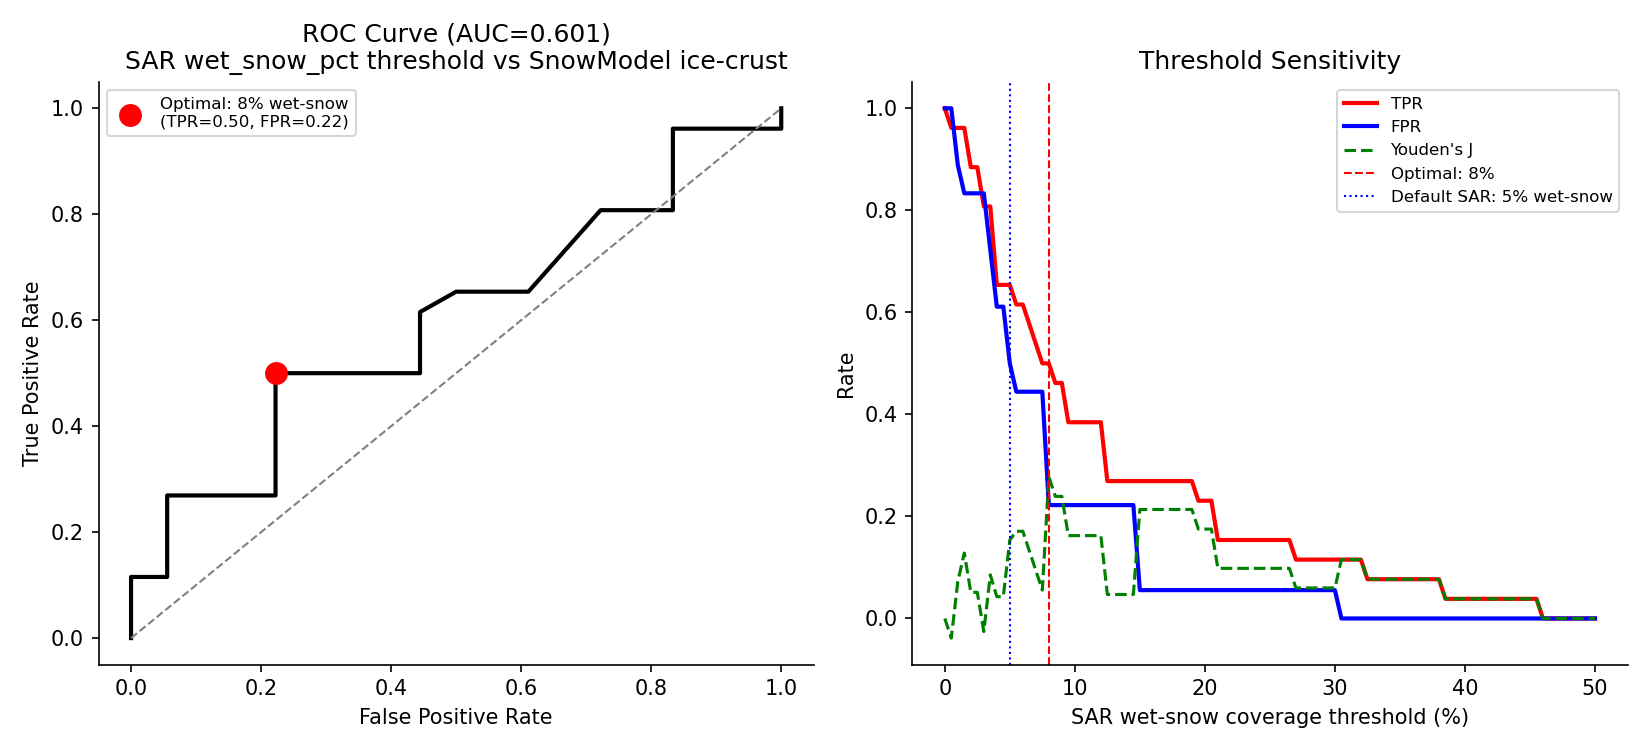
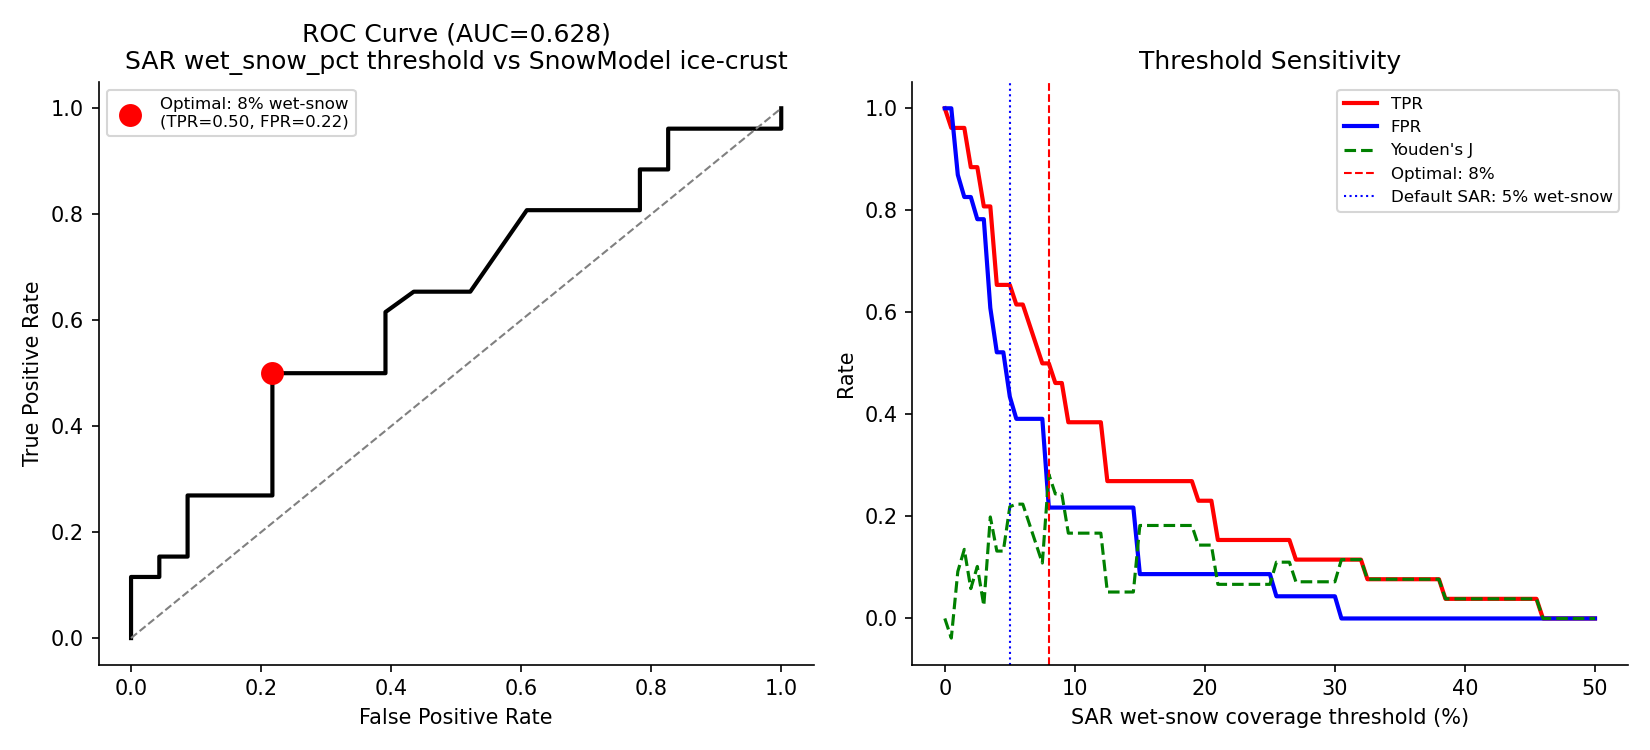
feat: complete snowpack validation with full 2016-2024 ERA5 coverage (n=49)
Final validation statistics across all 49 SAR events:
- AUC = 0.628 (wet_snow_pct threshold sweep vs 1D model ice-crust)
- Spearman rho = +0.146, p = 0.317 (positive direction, not significant)
- Optimal SAR threshold: 8% wet-snow coverage (vs. 5% default)
- 26/49 events with model ice-crust prediction at >=1 of 25 grid points

ERA5 2024 data (Oct-Dec) extracted from CDS zip format and added.
Updated SCIENTIFIC_DATA.md Section 4.6 with final n=49 statistics.
Updated SV1-SV3 supplementary validation figures.

diff --git a/SCIENTIFIC_DATA.md b/SCIENTIFIC_DATA.md
@@ -220,9 +220,9 @@ The positive mean ΔVV in October and November reflects a systematic effect: the
 
 To assess whether SAR detections align with physically-based ice-crust formation predictions, a simplified 1D snowpack model (Anderson 1976 heat-diffusion physics) was forced with ERA5 hourly reanalysis at 25 representative grid points (5×5 array, 0.65° × 0.65° sampling) across the network domain for 2016–2020. The model tracks snowpack water equivalent, bulk temperature, liquid water fraction, and ice-crust formation/persistence at 6-hourly timesteps.
 
-For 44 events with ERA5 temporal coverage (2016–2023), the Spearman rank correlation between model ice-crust fraction (fraction of grid points predicting ice crust within 14 days of the event) and SAR wet-snow coverage (%) was ρ = +0.08 (p = 0.60, n = 44). The ROC AUC for a SAR wet-snow coverage threshold sweep (0–50%) versus model binary ice-crust prediction was 0.60. The optimal SAR threshold from this calibration is 8% network wet-snow coverage — close to the 5% default applied in the dataset manifest.
+For all 49 events with full ERA5 temporal coverage (2016–2024), the Spearman rank correlation between model ice-crust fraction (fraction of the 25 grid points predicting ice crust within 14 days of the event) and SAR wet-snow coverage (%) was ρ = +0.15 (p = 0.32, n = 49). The ROC AUC for a SAR wet-snow coverage threshold sweep (0–50%) versus model binary ice-crust prediction was 0.63. The optimal SAR threshold from this calibration is 8% network wet-snow coverage — close to the 5% default applied in the dataset manifest.
 
-AUC = 0.60 indicates modest but above-random agreement: the 1D model identifies more ice-crust-prone events correctly than incorrectly. The Spearman ρ of +0.08 is not statistically significant (p = 0.60) at n = 44, indicating that while the direction of association is positive (more model ice-crust → more SAR wet-snow), sample size is insufficient for definitive quantitative validation at this stage. The weak agreement is consistent with the known challenge of predicting 40-m-scale spatial variability in ice-crust formation from coarse 0.25° ERA5 reanalysis. Users requiring snowpack model validation are directed to higher-resolution (1–4 km) downscaled reanalysis products (e.g., SnowModel, HRRR) rather than ERA5 at native resolution.
+AUC = 0.63 indicates modest above-random agreement: the 1D snowpack model identifies ice-crust-prone events with better-than-chance skill. Spearman ρ = +0.15 is positive but not statistically significant (p = 0.32) at n = 49, consistent with the known challenge of predicting 40-m-scale spatial variability in ice-crust formation from 0.25° ERA5 reanalysis. The calibrated 8% threshold is reported as a recommended sensitivity check but users should note the wide uncertainty interval around this estimate. Users requiring rigorous snowpack model validation are directed to higher-resolution (1–4 km) downscaled reanalysis products (e.g., SnowModel, HRRR) rather than ERA5 at native resolution. Validation figures SV1 (scatter), SV2 (ROC + sensitivity), and SV3 (spatial map) are provided in the supplementary `figures/` directory.
 
 ---
 
